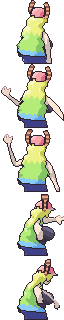
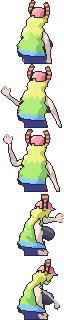
Lucoa back picture: right arm fixed in frames 2/4/5, rotated approved hand on frame 4, wider frame-3 wrist
Claude-Session: https://claude.ai/code/session_01PFRhGfDJhE1fCmd6x4xB4j

diff --git a/tools/rh/lucoa/v6/pose.py b/tools/rh/lucoa/v6/pose.py
@@ -34,16 +34,16 @@ POSES = [
     (0, LEAN[0], DOWN_L, DOWN_R),
     # wind-up: left arm down, forearm up to the hand; right arm swung out down-right
     (TW1, LEAN[1], [('LeftArm', (0.4, -0.9, -0.2)), ('LeftForeArm', (0.5, 0.55, -0.55)), ('LeftHand', (0.45, 0.7, -0.45))],
-     [('RightArm', (-0.75, -0.7, 0.1)), ('RightForeArm', (-0.7, -0.7, 0.15)), ('RightHand', (-0.7, -0.7, 0.15))]),
+     [('RightArm', (-0.5, -0.85, 0.1)), ('RightForeArm', (-0.35, -0.9, 0.25)), ('RightHand', (-0.3, -0.9, 0.3))]),
     # cocked: elbow out, fist beside her head; right arm down, a little out
     (TW2, LEAN[2], [('LeftArm', (0.8, -0.5, -0.3)), ('LeftForeArm', (0.2, 1, -0.25)), ('LeftHand', (0.1, 1, -0.15))],
      [('RightArm', (-0.4, -0.9, 0.05)), ('RightForeArm', (-0.35, -0.9, 0.15)), ('RightHand', (-0.35, -0.9, 0.15))]),
     # release: left arm sweeps toward the foe; right arm pulled back and bent, hand by the far hip
     (TW3, LEAN[3], [('LeftArm', (float(os.environ.get('AX',-0.2)), float(os.environ.get('AY',0.3)), 0.9)), ('LeftForeArm', (float(os.environ.get('AX',-0.2)) - 0.1, float(os.environ.get('FY',0.05)), 0.9)), ('LeftHand', (float(os.environ.get('AX',-0.2)) - 0.1, float(os.environ.get('FY',0.05)), 0.9))],
-     [('RightArm', (-0.4, -0.85, -0.3)), ('RightForeArm', (0.3, -0.45, 0.6)), ('RightHand', (0.3, -0.5, 0.55))]),
+     [('RightArm', (-0.3, -0.9, -0.35)), ('RightForeArm', (-0.1, -0.95, 0.2)), ('RightHand', (-0.1, -0.95, 0.25))]),
     # follow-through: left arm down across in front; right arm still back and bent
     (TW4, LEAN[4], [('LeftArm', (-0.15, -0.45, 0.85)), ('LeftForeArm', (-0.25, -0.55, 0.75)), ('LeftHand', (-0.25, -0.6, 0.7))],
-     [('RightArm', (-0.4, -0.85, -0.25)), ('RightForeArm', (0.3, -0.5, 0.6)), ('RightHand', (0.3, -0.55, 0.55))]),
+     [('RightArm', (-0.3, -0.9, -0.3)), ('RightForeArm', (-0.1, -0.95, 0.2)), ('RightHand', (-0.1, -0.95, 0.25))]),
 ]
 
 def grow_horns(mesh, k):
@@ -78,6 +78,9 @@ def apply_pose(arm, i):
             pb = arm.pose.bones['mixamorig:' + side + b]; pb.scale = (1.25, 1.0, 1.25)
             for c in pb.children: c.scale = (1 / 1.25, 1.0, 1 / 1.25)
         arm.pose.bones['mixamorig:' + side + 'Hand'].scale = (1.0, 1.0, 1.0)
+    if i == 2:   # raised forearm in frame 3: thicker so the wrist matches the hand
+        k = 1.7; pb = arm.pose.bones['mixamorig:LeftForeArm']; pb.scale = (k, 1.0, k)
+        arm.pose.bones['mixamorig:LeftHand'].scale = (1 / k, 1.0, 1 / k)
     # (frames 2-3 get a hand-drawn fist in convert.py)
     # throwing hand: fingers curled around the ball
     if True:

diff --git a/tools/rh/lucoa/v6/red_hands_small.py b/tools/rh/lucoa/v6/red_hands_small.py
@@ -28,23 +28,25 @@ HANDS = {
         "..OmmmmmO.",
         "...OOmmO..",
     ]},
-    3: {'at': (55, 23), 'rows': [        # Red's frame-4 hand at 75%: fingers out toward the foe, thumb hanging down
-        "...nn.....",
-        ".nnLLm..n.",
-        "OLLLmmnnmn",
-        "MLLLLLLLLO",
-        "MLLLLLLLmO",
-        "MMLLLLnOO.",
-        "OOmLLmO...",
-        "..OmmmO...",
-        "...OmmO...",
-        "....OO....",
+    3: {'at': (55, 21), 'rows': [        # the approved frame-2 hand turned 90 degrees: fingers toward the foe, thumb down
+        "...OOO....",
+        "..Ommmnn..",
+        ".OmmmLmmn.",
+        "Ommmmmnnmn",
+        "OmmmmmmLLn",
+        "mmmmmmmnn.",
+        "mmmmmmn...",
+        "mmmmmmn...",
+        "OOnnmLLn..",
+        "....OOnn..",
     ]},
 }
 # pixels that close the outline where a hand meets the arm: {frame: {(x, y): letter}}
 JOIN = {3: {}}
 # the wrist each patch was drawn for; patches and erase areas follow the real wrist from hands.json
 REF = {1: (10, 31), 2: (13, 20), 3: (55, 27)}
+# frame 3: widen the raised forearm under the hand to 2 pixels (rows below the wrist, relative to the wrist)
+WIDEN = {2: range(-5, 4)}
 def erase(img, i, d=(0, 0)):
     ox, oy = d
     if i == 1:      # the rendered hand: everything past the wrist, up and to the left
@@ -70,3 +72,9 @@ def apply(img, i, wrist=None):
         for dx, c in enumerate(row):
             if c != ' ' and 0 <= ax + dx < 64 and 0 <= ay + dy < 64: img[ay + dy][ax + dx] = C[c]
     for (x, y), c in JOIN.get(i, {}).items(): img[y][x] = C[c]
+    for dy in WIDEN.get(i, ()):
+        y = REF[i][1] + d[1] + dy
+        xs = [x for x in range(0, 30) if img[y][x] in (SK[0], SK[2], MID)]
+        if xs and len(xs) < 2:
+            r = max(xs)
+            if img[y][r + 1] == backpal.O: img[y][r + 1] = img[y][r]; img[y][r + 2] = backpal.O
